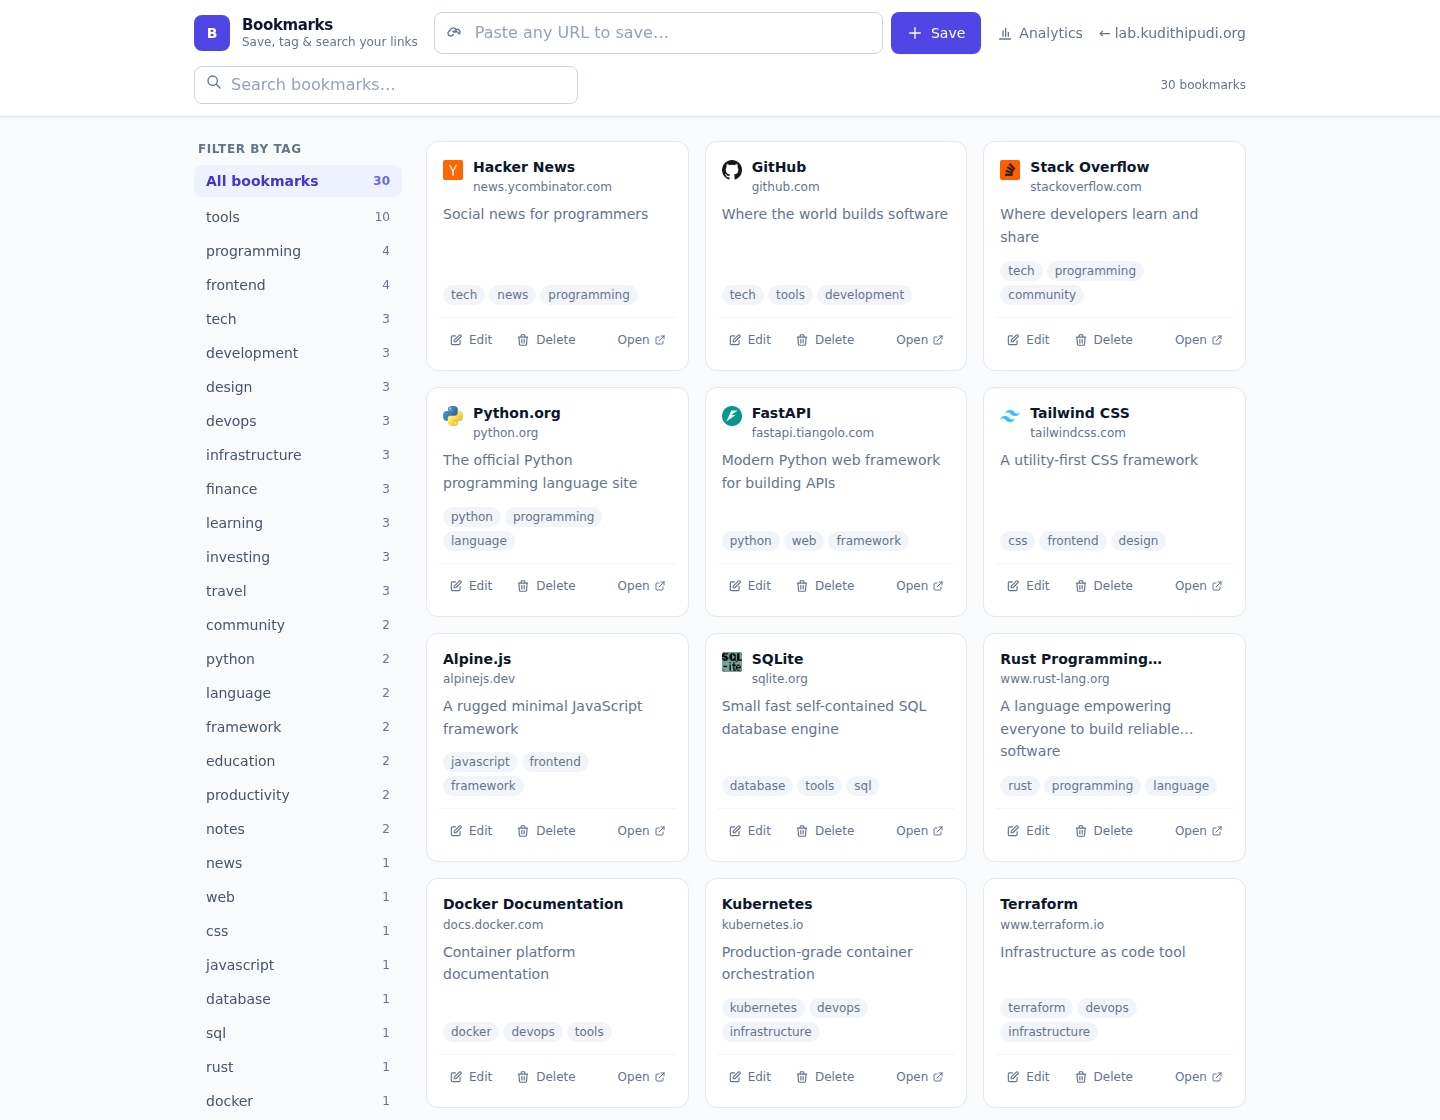
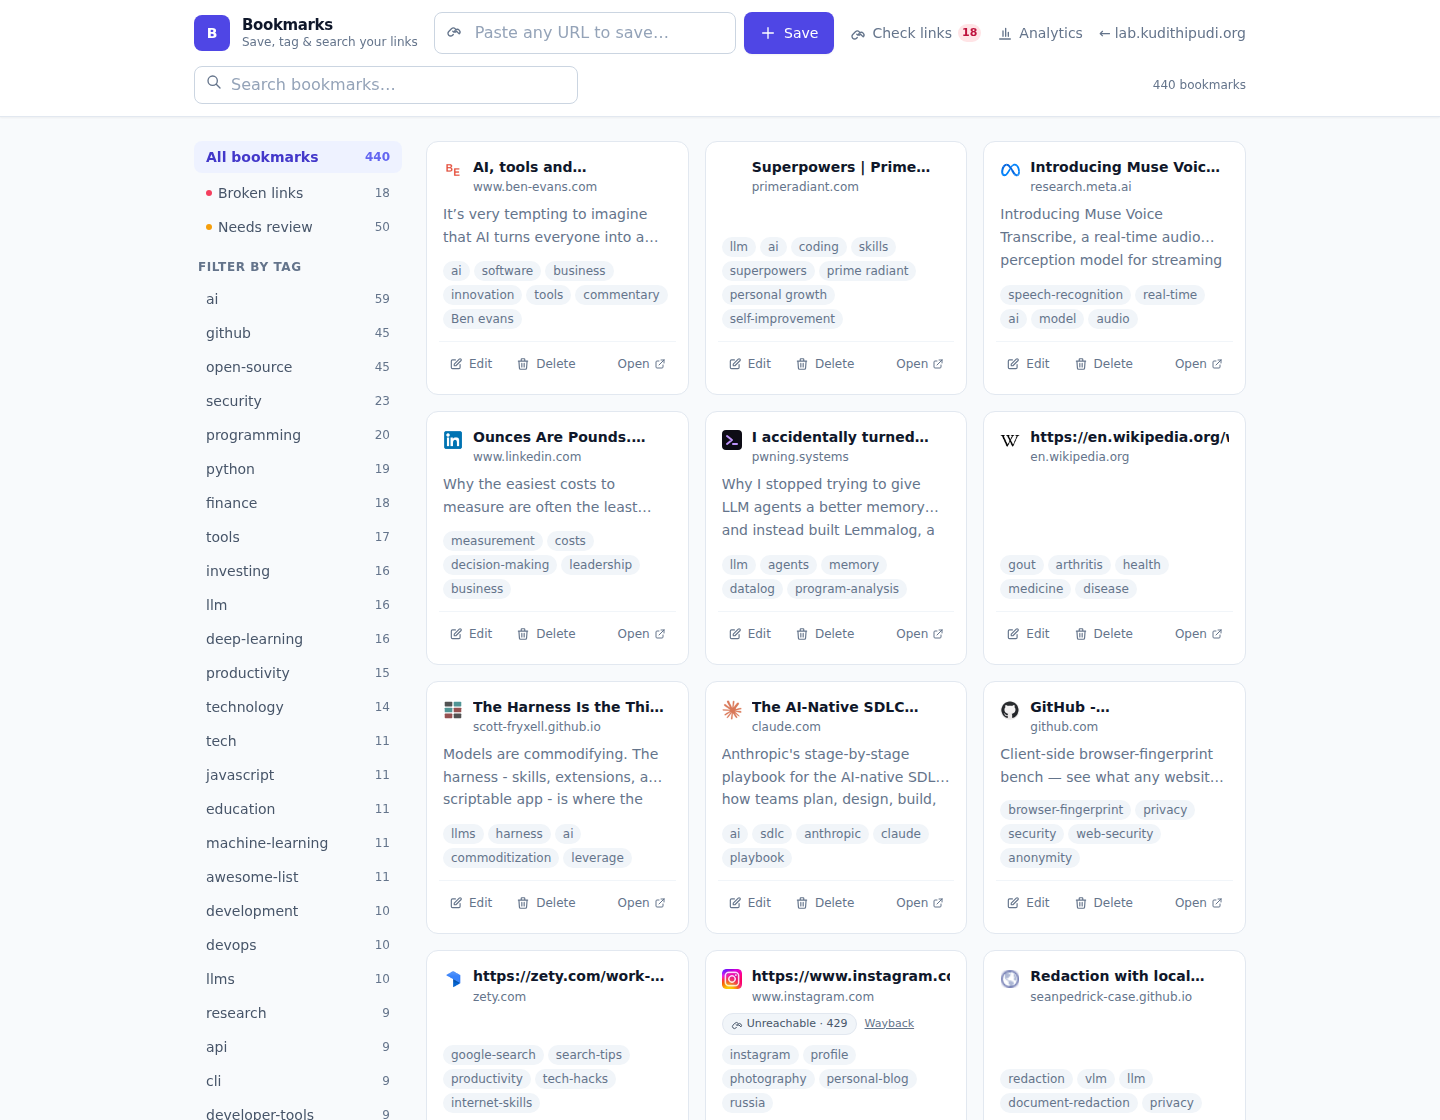
docs: refresh screenshots + describe the constellation and collection map
- New docs/screenshot-search.png: hybrid search with the match constellation
- Refreshed list + analytics screenshots (analytics now shows the collection map)
- README: note the constellation and the 2D collection map; add
  GET /api/analytics/map to the API table

Claude-Session: https://claude.ai/code/session_0173bhWBotGAwX6Scwbtn3Gt

diff --git a/README.md b/README.md
@@ -8,7 +8,9 @@ metadata and AI tags, find things again with hybrid keyword + semantic search.
 
 ![The bookmark list with the tag sidebar and search](docs/screenshot.png)
 
-![The analytics page — totals, growth over time, top tags and domains, tag cloud](docs/screenshot-analytics.png)
+![Hybrid search — exact keyword matches, then a "Related by meaning" section with a constellation showing how close each result sits to the query](docs/screenshot-search.png)
+
+![The analytics page — growth over time, a semantic collection map, top tags and domains, tag cloud](docs/screenshot-analytics.png)
 
 ## What it is
 
@@ -18,12 +20,16 @@ organize everything with search and tag filtering. Search is hybrid: exact
 keyword matches rank first, then semantic nearest-neighbor matches found by
 meaning (local embeddings — "app for organizing my thoughts" finds Obsidian).
 Semantic-only hits are shown in their own "Related by meaning" section, each
-badged with a `NN% match` strength indicator. The tag sidebar is scoped to
-the current search, too — it only lists tags actually present among the
-matched bookmarks (exact + semantic), not the whole library.
+badged with a `NN% match` strength indicator and plotted on a small
+constellation — the query at the centre, each result a star pulled closer the
+stronger its match. The tag sidebar is scoped to the current search, too — it
+only lists tags actually present among the matched bookmarks (exact +
+semantic), not the whole library.
 
 A dedicated `/analytics` page visualizes the collection: bookmarks saved per
-month, top tags, top domains, and a tag word cloud.
+month, a **collection map** that projects every bookmark's embedding to 2D
+(PCA — no extra dependency) so topic clusters are visible at a glance, top
+tags, top domains, and a tag word cloud.
 
 Served at `https://lab.kudithipudi.org/bookmark/`.
 
@@ -199,6 +205,7 @@ Set in `/var/www/bookmark/.env` (chmod 600, never committed); see
 | `DELETE` | `/api/bookmarks/{id}` | Delete bookmark (requires `X-Delete-Password` if configured) |
 | `GET` | `/api/tags` | Tags with counts plus `"total"` bookmark count. Query param: `search` scopes the tags/counts to bookmarks matching that search (exact+semantic); `"total"` always reflects the whole library |
 | `GET` | `/api/analytics` | Collection stats: totals, a zero-filled monthly `timeline`, `top_tags`, `top_domains` |
+| `GET` | `/api/analytics/map` | 2D PCA projection of every bookmark embedding for the collection map (`points`, tag `clusters`); lazy-loaded by the analytics page |
 | `GET` | `/api/link-health` | Link-checker counts (`broken`, `review`, `checked`, `total`) plus the last sweep |
 | `GET` `POST` | `/api/admin/link-check` | Poll / start a bulk link-check sweep (requires `X-Admin-Password` if configured) |
 
